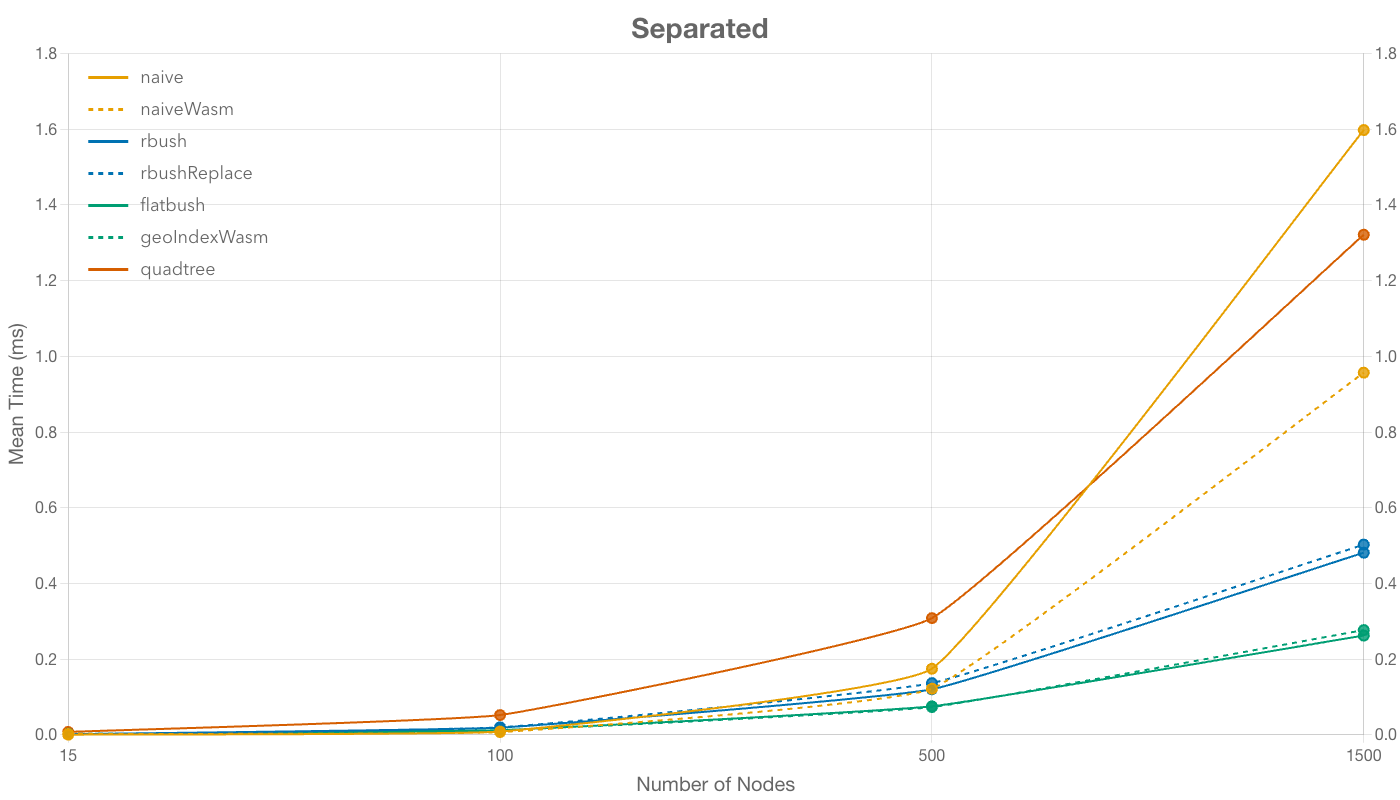
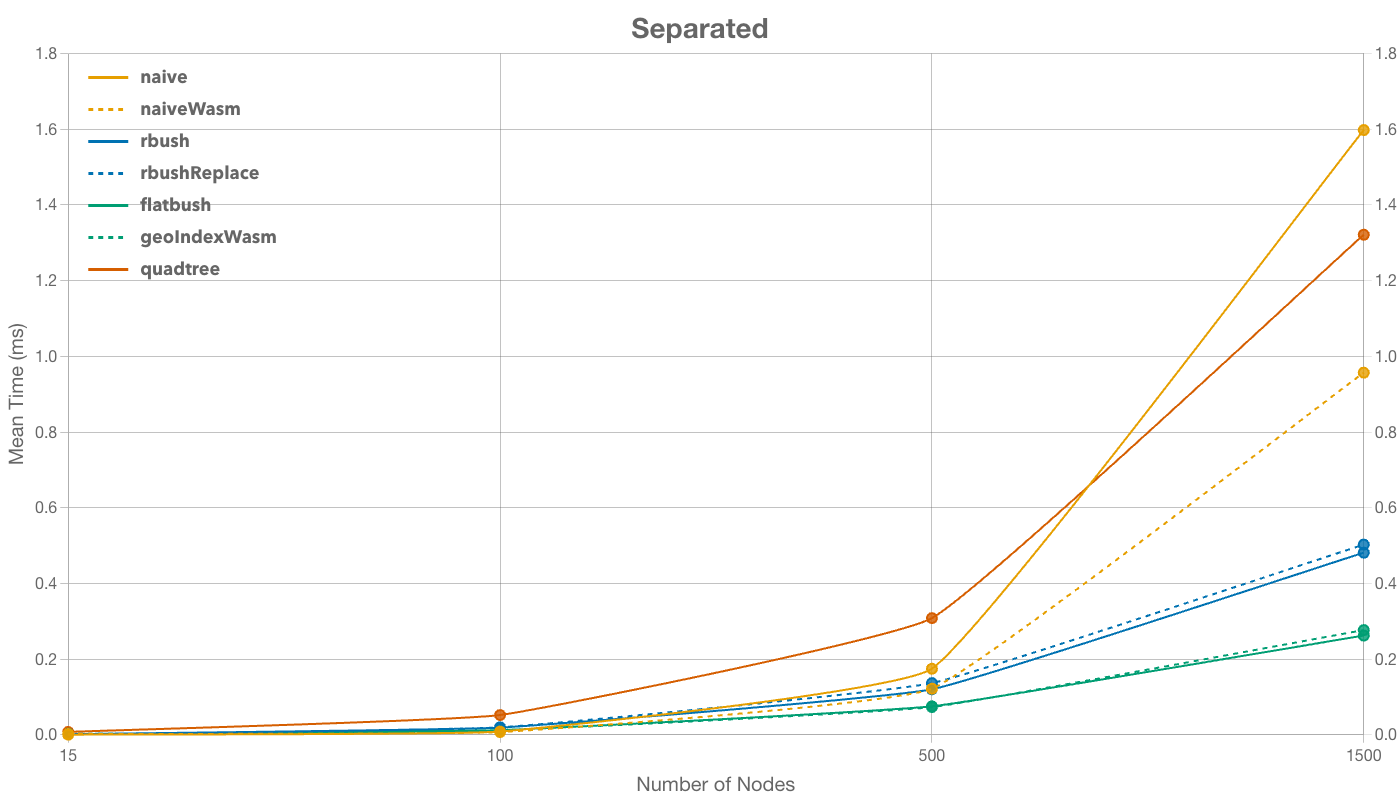
improve charts

Changed region(s): [[0.0921, 0.0938, 0.215, 0.3438]]

diff --git a/scripts/generate-bench-images.ts b/scripts/generate-bench-images.ts
@@ -204,7 +204,7 @@ async function generateBenchImages() {
 						// Draw label
 						ctx.setLineDash([]);
 						ctx.fillStyle = '#666';
-						ctx.font = '18px sans-serif';
+						ctx.font = 'bold 18px sans-serif';
 						ctx.textBaseline = 'middle';
 						ctx.fillText(ds.label as string, legendX + boxWidth + 12, y + boxHeight);
 					});
@@ -245,7 +245,8 @@ async function generateBenchImages() {
 							font: {
 								size: 28,
 								weight: 'bold'
-							}
+							},
+							color: '#666'
 						},
 						legend: {
 							display: false
@@ -269,12 +270,17 @@ async function generateBenchImages() {
 								text: 'Mean Time (ms)',
 								font: {
 									size: 20
-								}
+								},
+								color: '#666'
+							},
+							grid: {
+								color: 'rgba(102, 102, 102, 0.4)'
 							},
 							ticks: {
 								font: {
 									size: 16
 								},
+								color: '#666',
 								callback: function (value) {
 									if (typeof value === 'number') {
 										return value.toFixed(1);
@@ -294,6 +300,7 @@ async function generateBenchImages() {
 								font: {
 									size: 16
 								},
+								color: '#666',
 								callback: function (value) {
 									if (typeof value === 'number') {
 										return value.toFixed(1);
@@ -308,12 +315,17 @@ async function generateBenchImages() {
 								text: 'Number of Nodes',
 								font: {
 									size: 20
-								}
+								},
+								color: '#666'
+							},
+							grid: {
+								color: 'rgba(102, 102, 102, 0.4)'
 							},
 							ticks: {
 								font: {
 									size: 16
-								}
+								},
+								color: '#666'
 							}
 						}
 					}
